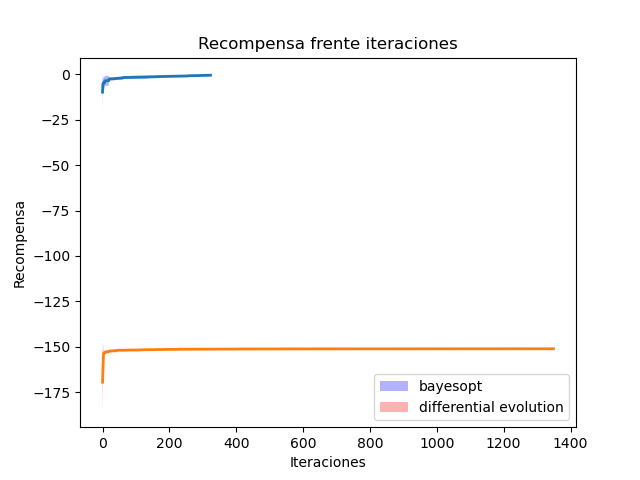
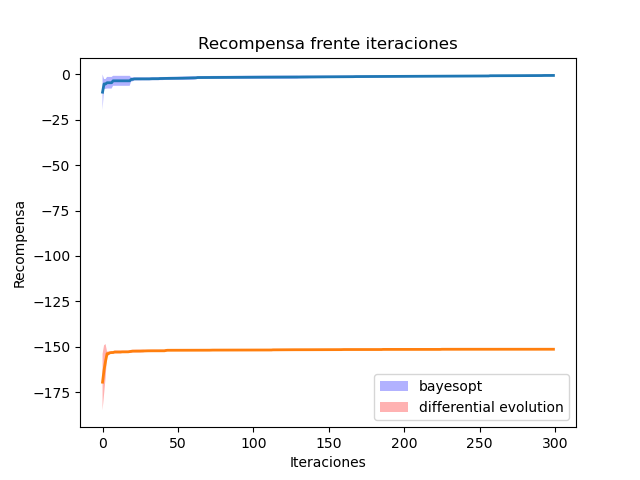
Grafica parala optimizacion de la tarea de apretar un boton con solo 1.

diff --git a/print_graph.py b/print_graph.py
@@ -43,10 +43,10 @@ for resultado in lista_de_resultados:
     n, it = range(res.shape[0]), range(res.shape[1])
     t_limits = sp.t.interval(0.95, n_experimentos) / np.sqrt(n_experimentos)
 
-    # res = res[0:50]
-    # res_mean = res_mean[0:50]
-    # res_std = res_std[0:50]
-    # it = it[0:50]
+    res = res[0:300]
+    res_mean = res_mean[0:300]
+    res_std = res_std[0:300]
+    it = it[0:300]
 
     plt.plot(it, res_mean, linewidth=2, label=None)
     plt.fill(np.concatenate([it, it[::-1]]),
